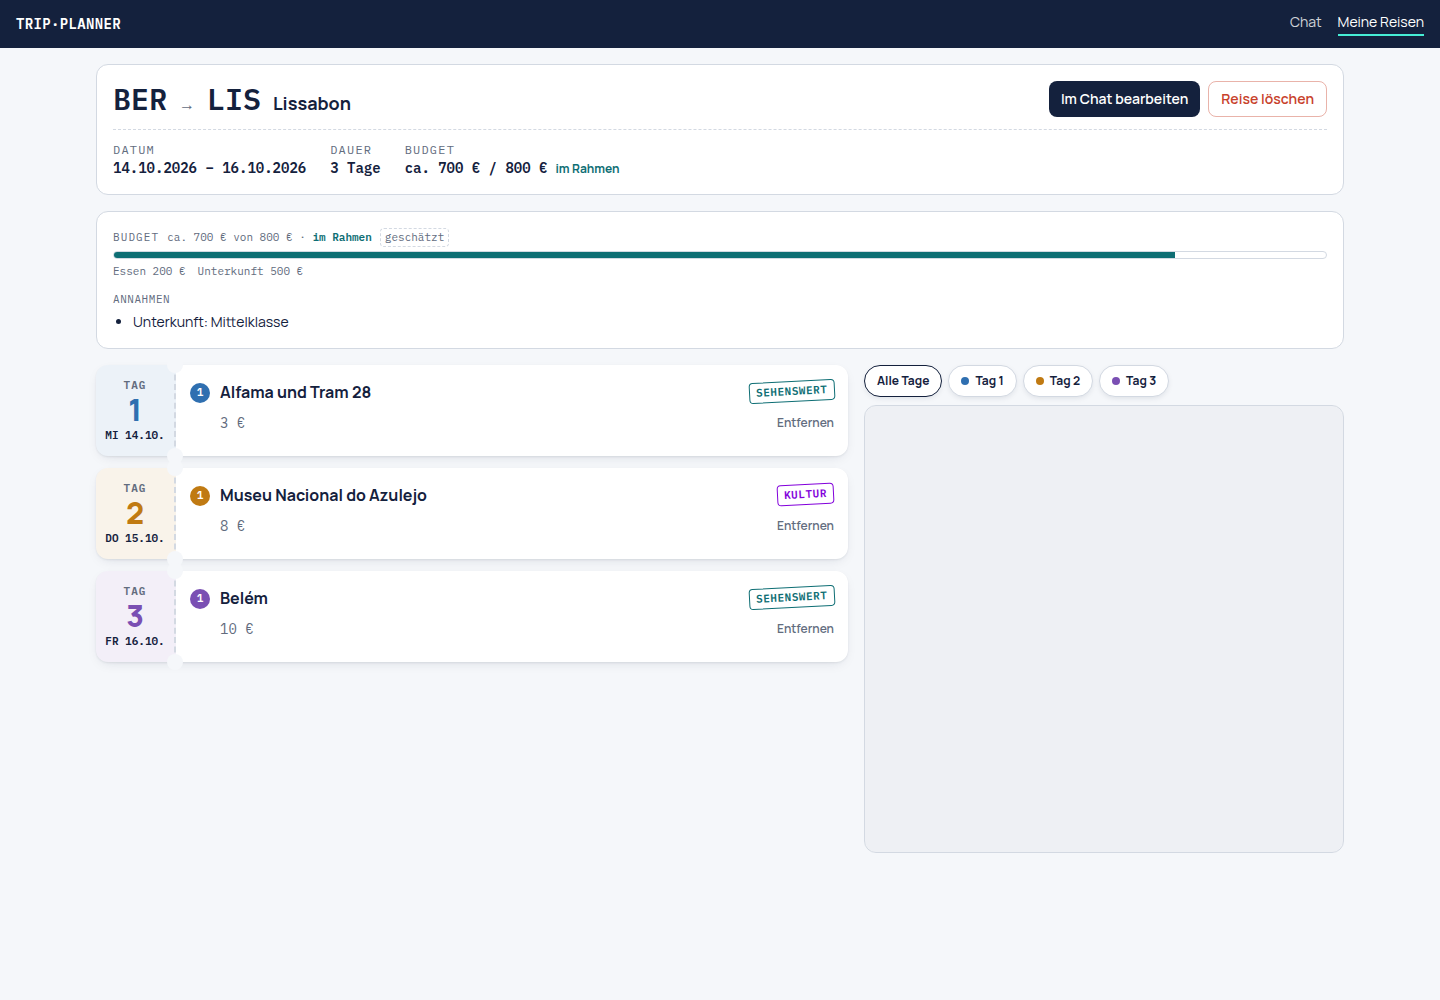
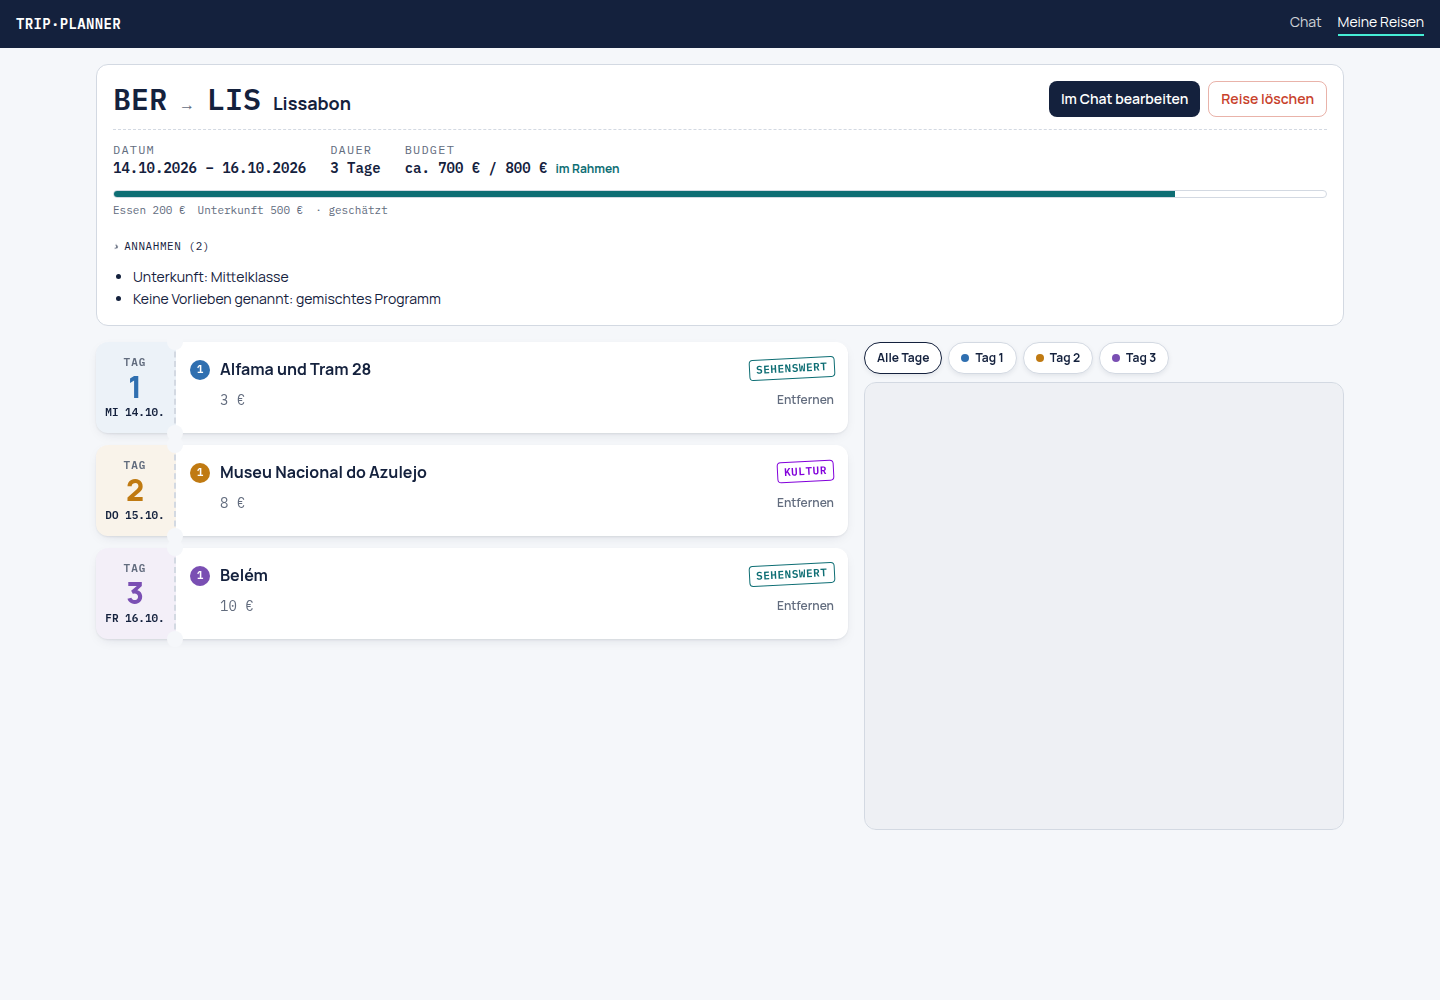
feat(web): Budget und Annahmen in der Kopfkarte der gespeicherten Reise
Die eigene Budgetkarte wiederholte die Summe aus der Kopfkarte und schob
die Tage nach unten. Jetzt stehen Budgetbalken mit Aufteilung
(BudgetBar compact, ohne eigene Kopfzeile) und die Annahmen
(aufklappbar) in der Kopfkarte; Klassik-Pläne zeigen dort die
Programmpunkte gegen das Budget.

Claude-Session: https://claude.ai/code/session_017ZkvXnp4CLVWdwz1XYKKUV

Changed region(s): [[0.0625, 0.186, 0.9375, 0.651], [0.5, 0.341, 0.8125, 0.651]]

diff --git a/apps/web/src/app/trips/detail/page.tsx b/apps/web/src/app/trips/detail/page.tsx
@@ -217,50 +217,44 @@ function TripDetail() {
             />
           </div>
         }
-      />
-
-      {report ? (
-        // Dieselbe Schätzung wie im Entwurf: Anreise, Unterkunft, Programm, Essen
-        <div className="rounded-xl border border-rule bg-card px-4 pb-4 pt-1">
-          <BudgetBar report={report} />
-          {assumptions.length > 0 && (
-            <section aria-label="Annahmen" className="mt-3">
-              <h2 className="mb-1 font-mono text-[11px] uppercase tracking-wider text-dim">
-                Annahmen
-              </h2>
-              <ul className="list-disc space-y-0.5 pl-5 text-sm">
-                {assumptions.map((assumption) => (
-                  <li key={assumption}>{assumption}</li>
-                ))}
-              </ul>
-            </section>
-          )}
-        </div>
-      ) : (
-        <div className="rounded-xl border border-rule bg-card p-4">
-          <div className="flex justify-between gap-3 font-mono text-xs">
-            <span className="uppercase tracking-wider text-dim">Programmpunkte</span>
-            <span className={`font-semibold tabular-nums ${isOverBudget ? 'text-stamp' : ''}`}>
-              {formatMoney(plannedCents, itinerary.currency)} /{' '}
-              {formatMoney(itinerary.budgetCents, itinerary.currency)}
-            </span>
-          </div>
-          <div className="mt-2 h-1.5 overflow-hidden rounded-full bg-rule">
-            <div
-              className={`h-full rounded-full ${isOverBudget ? 'bg-stamp' : 'bg-teal'}`}
-              style={{ width: `${Math.min(percent, 100)}%` }}
-            />
-          </div>
-          {isOverBudget ? (
-            <p className="mt-2 text-xs text-stamp">
-              Budget um {formatMoney(plannedCents - itinerary.budgetCents, itinerary.currency)}{' '}
-              überschritten.
+      >
+        {/* Budget und Annahmen in der Kopfkarte statt in eigenen Karten: Die
+            Summe steht schon oben, hier nur Balken und Aufteilung */}
+        {report ? (
+          <BudgetBar report={report} compact />
+        ) : (
+          // Ältere und Klassik-Pläne: nur die Programmpunkte gegen das Budget
+          <section aria-label="Programmpunkte gegen das Budget" className="mt-3">
+            <div className="h-2 overflow-hidden rounded-full border border-rule bg-card">
+              <div
+                className={`h-full ${isOverBudget ? 'bg-stamp' : 'bg-teal'}`}
+                style={{ width: `${Math.min(percent, 100)}%` }}
+              />
+            </div>
+            <p className={`mt-1 font-mono text-[11px] ${isOverBudget ? 'text-stamp' : 'text-dim'}`}>
+              Programmpunkte {formatMoney(plannedCents, itinerary.currency)}
+              {isOverBudget
+                ? ` · Budget um ${formatMoney(plannedCents - itinerary.budgetCents, itinerary.currency)} überschritten`
+                : ' · ohne Anreise und Unterkunft'}
             </p>
-          ) : (
-            <p className="mt-2 text-xs text-dim">Nur die Programmpunkte, ohne Anreise und Unterkunft.</p>
-          )}
-        </div>
-      )}
+          </section>
+        )}
+        {assumptions.length > 0 && (
+          <details className="group mt-3 text-sm">
+            <summary className="flex min-h-8 cursor-pointer list-none items-center gap-1 font-mono text-[11px] uppercase tracking-wider text-dim hover:text-foreground [&::-webkit-details-marker]:hidden">
+              <span aria-hidden="true" className="transition-transform group-open:rotate-90 motion-reduce:transition-none">
+                ›
+              </span>
+              Annahmen ({assumptions.length})
+            </summary>
+            <ul className="mt-1 list-disc space-y-0.5 pl-5">
+              {assumptions.map((assumption) => (
+                <li key={assumption}>{assumption}</li>
+              ))}
+            </ul>
+          </details>
+        )}
+      </TripSummary>
 
       <TripMapLayout stops={itinerary.stops} activeDay={activeDay} pinnedDay={pinnedDay} onPin={setPinnedDay}>
         {days.map((day) => (

diff --git a/apps/web/src/components/budget-bar.tsx b/apps/web/src/components/budget-bar.tsx
@@ -27,29 +27,32 @@ function formatEur(cents: number) {
 // Budgetbericht des Budget-Agenten unter der Antwort: Balken bis zum Budget,
 // darunter die Posten. Alle Beträge sind Schätzungen aus der Recherche und
 // werden so beschriftet. Ohne genanntes Budget zeigt der Balken nur die
-// Aufteilung der geschätzten Summe.
-export default function BudgetBar({ report }: { report: BudgetReport }) {
+// Aufteilung der geschätzten Summe. compact: ohne eigene Kopfzeile, wenn
+// Summe und Ampel schon daneben stehen (Kopfkarte der gespeicherten Reise).
+export default function BudgetBar({ report, compact = false }: { report: BudgetReport; compact?: boolean }) {
   const style = STATUS_STYLES[report.status];
   const limit = report.limitCents;
   const share = limit ? report.totalCents / limit : 1;
   return (
     <section aria-label="Budget" className="mt-3">
-      <p className="mb-1 flex flex-wrap items-baseline gap-x-2 font-mono text-[11px] uppercase tracking-widest text-dim">
-        <span>Budget</span>
-        <span className="normal-case tracking-normal">
-          {limit ? (
-            <>
-              ca. {formatEur(report.totalCents)} von {formatEur(limit)} ·{' '}
-              <span className={`font-semibold ${style.text}`}>{style.label}</span>
-            </>
-          ) : (
-            <>ca. {formatEur(report.totalCents)} · kein Budget genannt</>
-          )}
-        </span>
-        <span className="rounded border border-dashed border-rule px-1 normal-case tracking-normal">
-          geschätzt
-        </span>
-      </p>
+      {!compact && (
+        <p className="mb-1 flex flex-wrap items-baseline gap-x-2 font-mono text-[11px] uppercase tracking-widest text-dim">
+          <span>Budget</span>
+          <span className="normal-case tracking-normal">
+            {limit ? (
+              <>
+                ca. {formatEur(report.totalCents)} von {formatEur(limit)} ·{' '}
+                <span className={`font-semibold ${style.text}`}>{style.label}</span>
+              </>
+            ) : (
+              <>ca. {formatEur(report.totalCents)} · kein Budget genannt</>
+            )}
+          </span>
+          <span className="rounded border border-dashed border-rule px-1 normal-case tracking-normal">
+            geschätzt
+          </span>
+        </p>
+      )}
       <div
         role="meter"
         aria-valuemin={0}
@@ -69,6 +72,7 @@ export default function BudgetBar({ report }: { report: BudgetReport }) {
             {CATEGORY_LABELS[item.category]} {formatEur(item.cents)}
           </li>
         ))}
+        {compact && <li>· geschätzt</li>}
       </ul>
     </section>
   );

diff --git a/docs/phase-3/README.md b/docs/phase-3/README.md
@@ -260,12 +260,16 @@ ersetzt die Reise, statt eine neue anzulegen.
 
 **Gleiche Ansicht für gespeicherte Reisen:** `/trips/detail` hat jetzt das Layout der
 Arbeitsfläche: Kopfkarte mit Ortskürzeln (mit Abreiseort), Datum, Dauer und Budget, darunter die
-Tage, ab `xl` die Stadtkarte rechts daneben, die beim Scrollen stehen bleibt, mit Tag-Auswahl. Beide
+Tage, ab `xl` die Stadtkarte rechts daneben, die beim Scrollen stehen bleibt, mit Tag-Auswahl.
+Budgetbalken mit Aufteilung (`BudgetBar` mit `compact`, ohne die Summe ein zweites Mal) und die
+Annahmen (aufklappbar) stehen in der Kopfkarte statt in einer eigenen Karte, damit die Tage weiter
+oben beginnen. Reiter wie im Chat gibt es hier nicht: Ohne Wetter, Kritik und Ablauf bliebe für
+einen eigenen Reiter nur eine Zeile. Beide
 nutzen dieselben Bausteine
 ([`components/trip-plan.tsx`](../../apps/web/src/components/trip-plan.tsx): `TripSummary`,
 `DayChips`, `TripMapLayout`).
 
-![Gespeicherte Reise am Desktop: Kopfkarte BER → LIS mit „Im Chat bearbeiten“, Budget und Annahmen, Tage links, Karte mit Tag-Auswahl rechts](trip-detail.png)
+![Gespeicherte Reise am Desktop: Kopfkarte BER → LIS mit „Im Chat bearbeiten“, Budgetbalken und aufgeklappten Annahmen, Tage links, Karte mit Tag-Auswahl rechts](trip-detail.png)
 
 Solange der Chat an einer gespeicherten Reise arbeitet, läuft jede Nachricht im Multi-Modus, denn
 nur der Orchestrator kennt den Entwurf der Session. Statt des Modus-Umschalters steht dann
